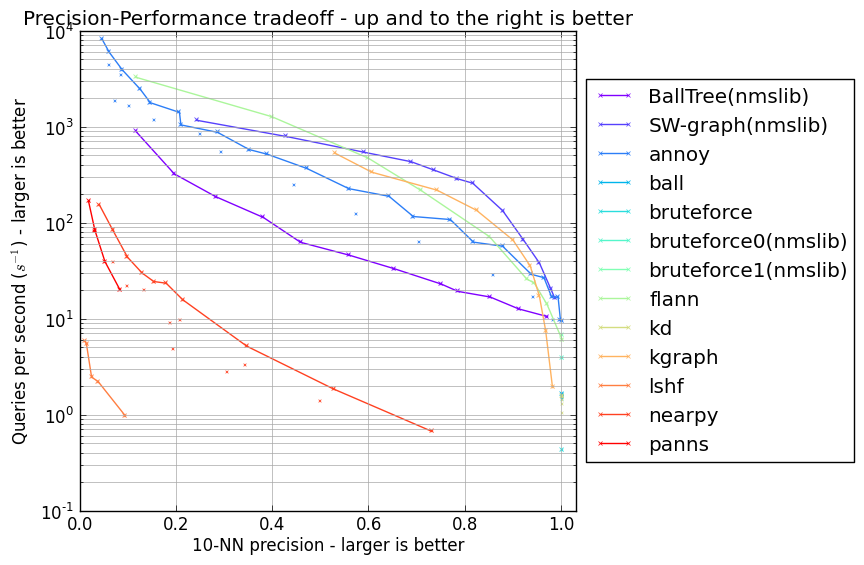
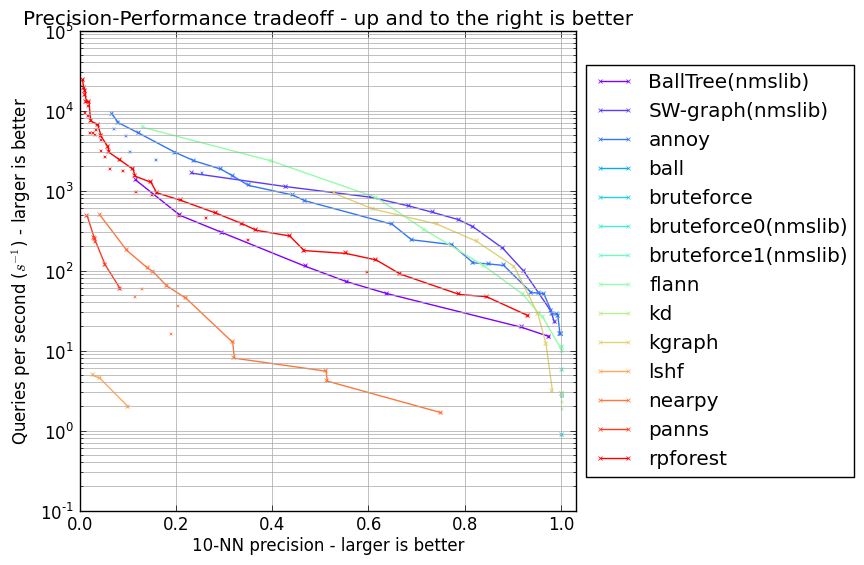
add RPForest, re-run all benchmarks

Changed region(s): [[0.0312, 0.0602, 1.0, 0.8726]]

diff --git a/README.rst b/README.rst
@@ -16,6 +16,7 @@ Evaluated
 * `NearPy <http://nearpy.io>`__
 * `KGraph <https://github.com/aaalgo/kgraph>`__
 * `NonMetricSpaceLib <https://github.com/searchivarius/NonMetricSpaceLib>`__
+* `RPForest <https://github.com/lyst/rpforest>`__
 
 Data sets
 ---------
@@ -57,7 +58,7 @@ Results
 
 This is very much a work in progress... more results coming later!
 
-1.19M vectors from GloVe (100 dimensions, trained from tweets), cosine similarity, run on an m1.xlarge instance on EC2.
+1.19M vectors from GloVe (100 dimensions, trained from tweets), cosine similarity, run on an c2.4xlarge instance on EC2.
 
 .. figure:: https://raw.github.com/erikbern/ann-benchmarks/master/results/glove.png
    :align: center
